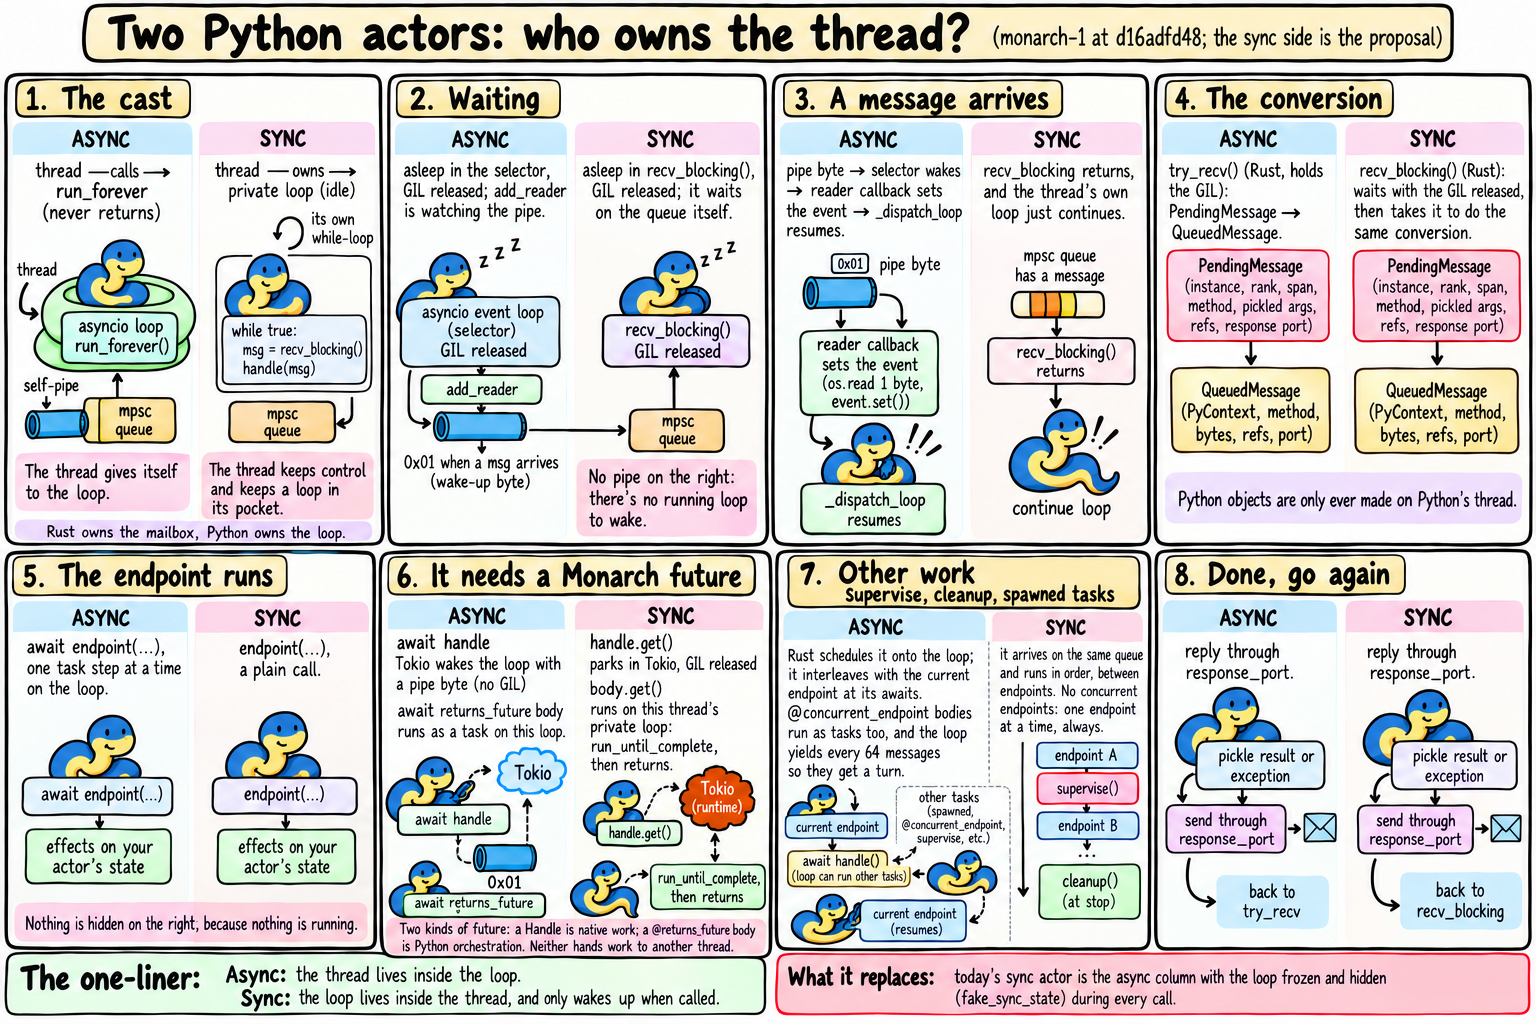
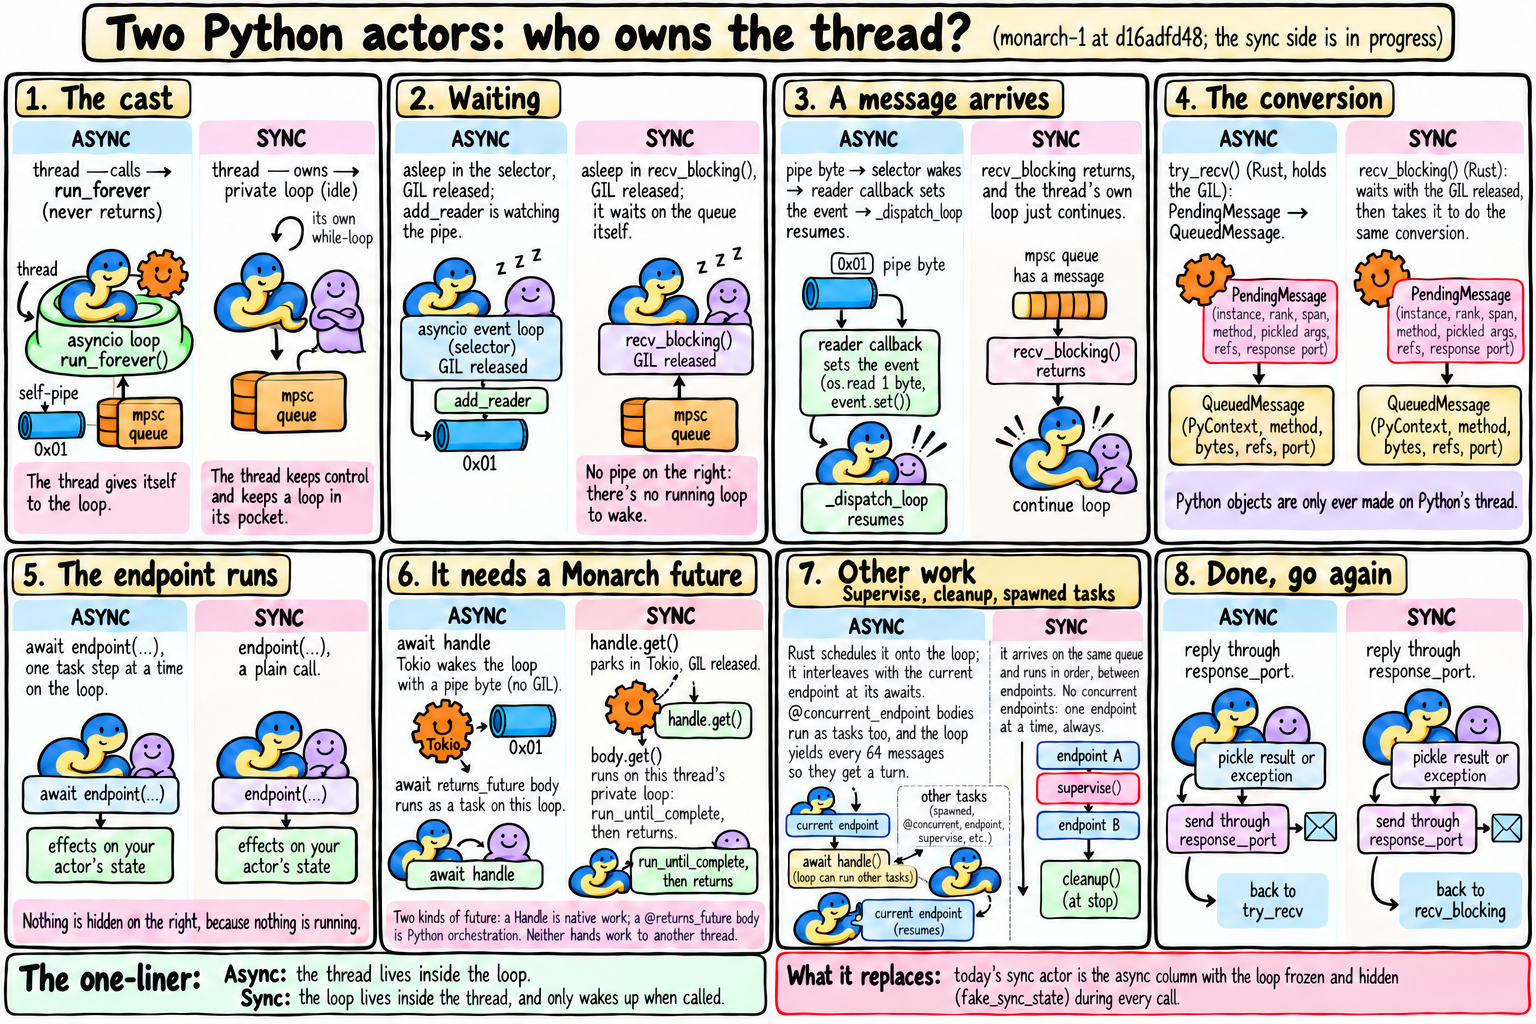
Name the Counter instance; link citations to references and sources

diff --git a/article.md b/article.md
@@ -37,11 +37,11 @@ For `Counter`, a state is the integer $n$, a message is $\mathtt{incr}(k)$ for a
 
 $$ \mathsf{step}(n, \mathtt{incr}(k)) = (n + k,\ n + k) $$
 
-A function of this shape, where the next state and the output both depend on the current state and the input, defines a **Mealy machine**: the standard model of a state machine that produces output (Mealy, 1955).
+A function of this shape, where the next state and the output both depend on the current state and the input, defines a **Mealy machine**: the standard model of a state machine that produces output ([Mealy, 1955](#ref-mealy)).
 
-Here a reply is what the endpoint returns, which Monarch sends back on the message's response port. In general an endpoint can send any number of messages to any ports (`explicit_response_port=True` hands it the response port to use itself), so the output of a step is a set of sends; `return x` is the case of exactly one. This is the **actor model** (Hewitt, 1973; Agha, 1986): on each message, an actor sends messages, creates actors, and becomes its next state.
+Here a reply is what the endpoint returns, which Monarch sends back on the message's response port. In general an endpoint can send any number of messages to any ports (`explicit_response_port=True` hands it the response port to use itself), so the output of a step is a set of sends; `return x` is the case of exactly one. This is the **actor model** ([Hewitt, 1973](#ref-hewitt); [Agha, 1986](#ref-agha)): on each message, an actor sends messages, creates actors, and becomes its next state.
 
-The object lives on its own Python thread; [`PythonActor`](https://github.com/meta-pytorch/monarch/blob/d16adfd48f71dadbdcf2c92c7a3d0054bd323ce2/monarch_hyperactor/src/actor.rs#L1066) holds a handle. The rest is plumbing around `step`, which never changes.
+Monarch constructs your `Counter` instance once, on a Python thread dedicated to that actor, and it stays there; Rust's [`PythonActor`](https://github.com/meta-pytorch/monarch/blob/d16adfd48f71dadbdcf2c92c7a3d0054bd323ce2/monarch_hyperactor/src/actor.rs#L1066) holds a handle to it. The rest is plumbing around `step`, which never changes.
 
 ## A run is a fold
 
@@ -95,9 +95,9 @@ The final states differ, so delivery must preserve order.
 
 ## References
 
-- G. Agha. *Actors: A Model of Concurrent Computation in Distributed Systems.* MIT Press, 1986.
-- C. Hewitt, P. Bishop and R. Steiger. A universal modular ACTOR formalism for artificial intelligence. *IJCAI*, 1973.
-- G. H. Mealy. A method for synthesizing sequential circuits. *Bell System Technical Journal* 34(5), 1955.
+- []{#ref-agha}G. Agha. [*Actors: A Model of Concurrent Computation in Distributed Systems*](https://doi.org/10.7551/mitpress/1086.001.0001). MIT Press, 1986.
+- []{#ref-hewitt}C. Hewitt, P. Bishop and R. Steiger. [A universal modular ACTOR formalism for artificial intelligence](https://www.ijcai.org/Proceedings/73/Papers/027B.pdf). *IJCAI*, 1973.
+- []{#ref-mealy}G. H. Mealy. [A method for synthesizing sequential circuits](https://doi.org/10.1002/j.1538-7305.1955.tb03788.x). *Bell System Technical Journal* 34(5), 1955.
 
 <!-- To come, in order:
 ## Order            two FIFO hops; order-preserving maps compose
